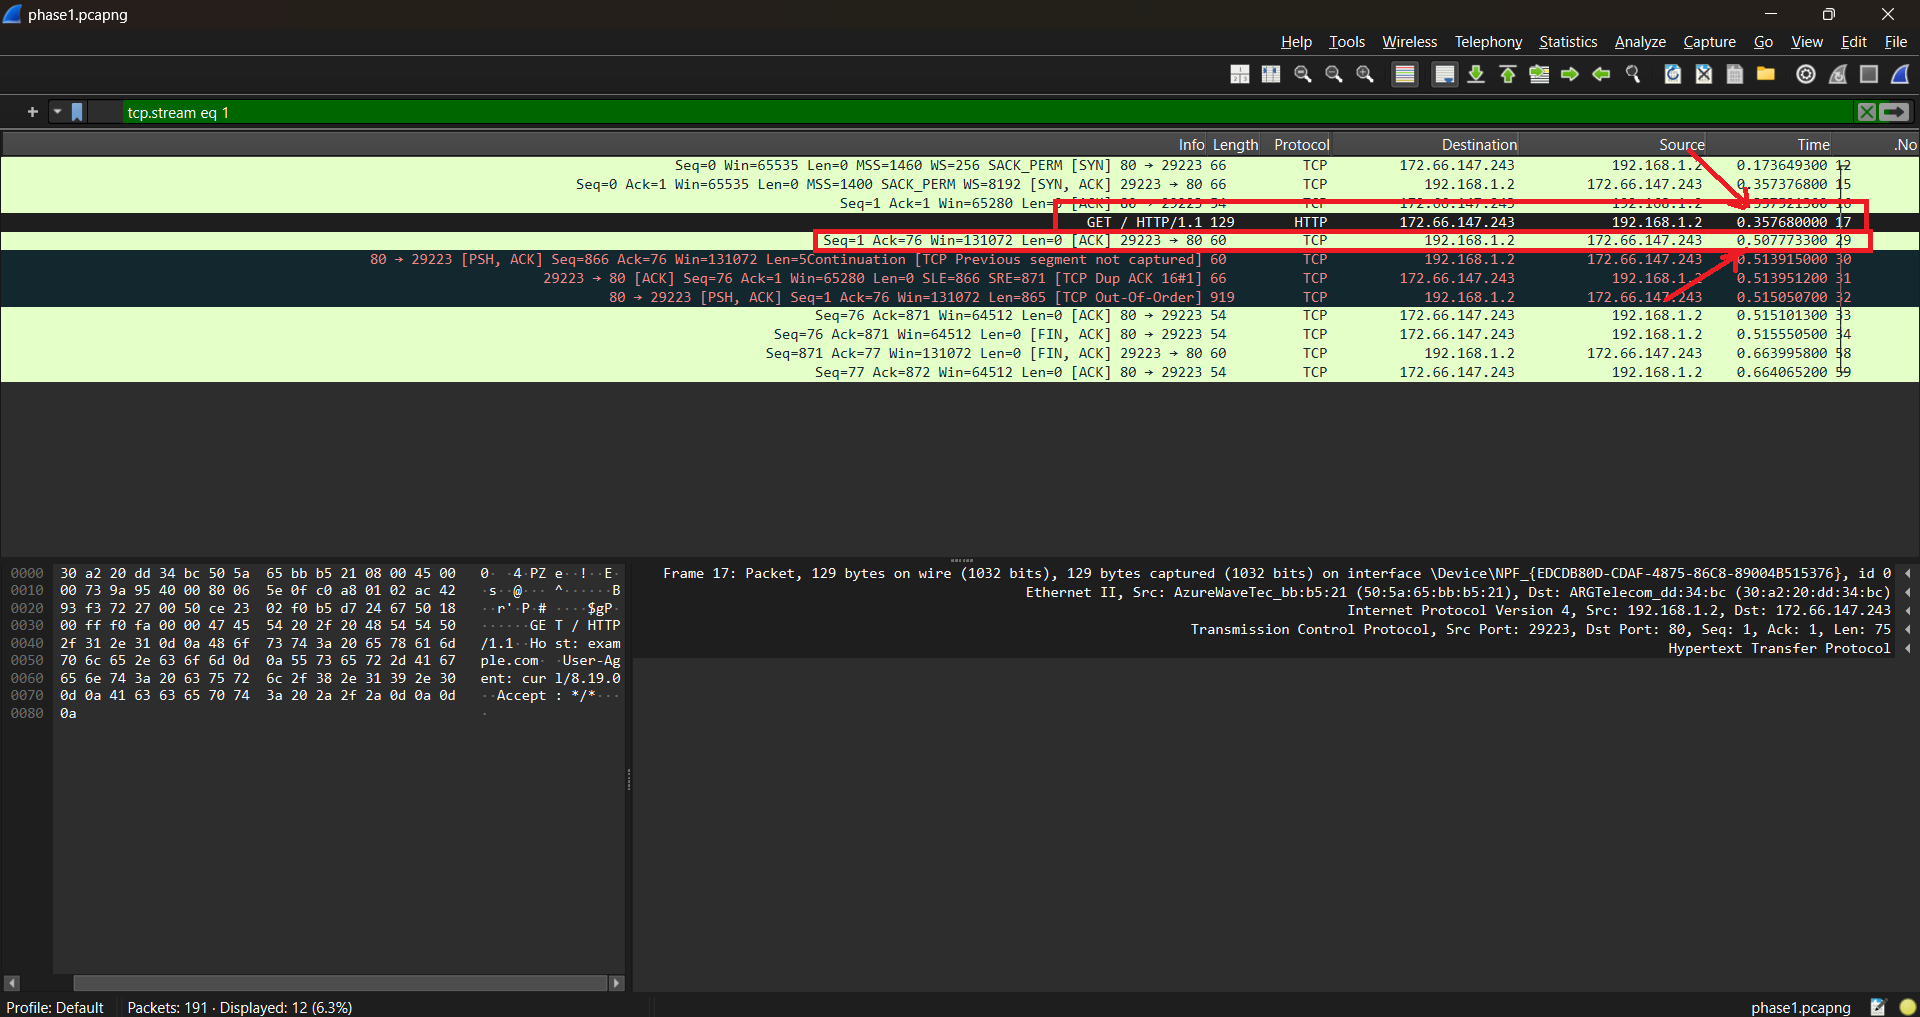
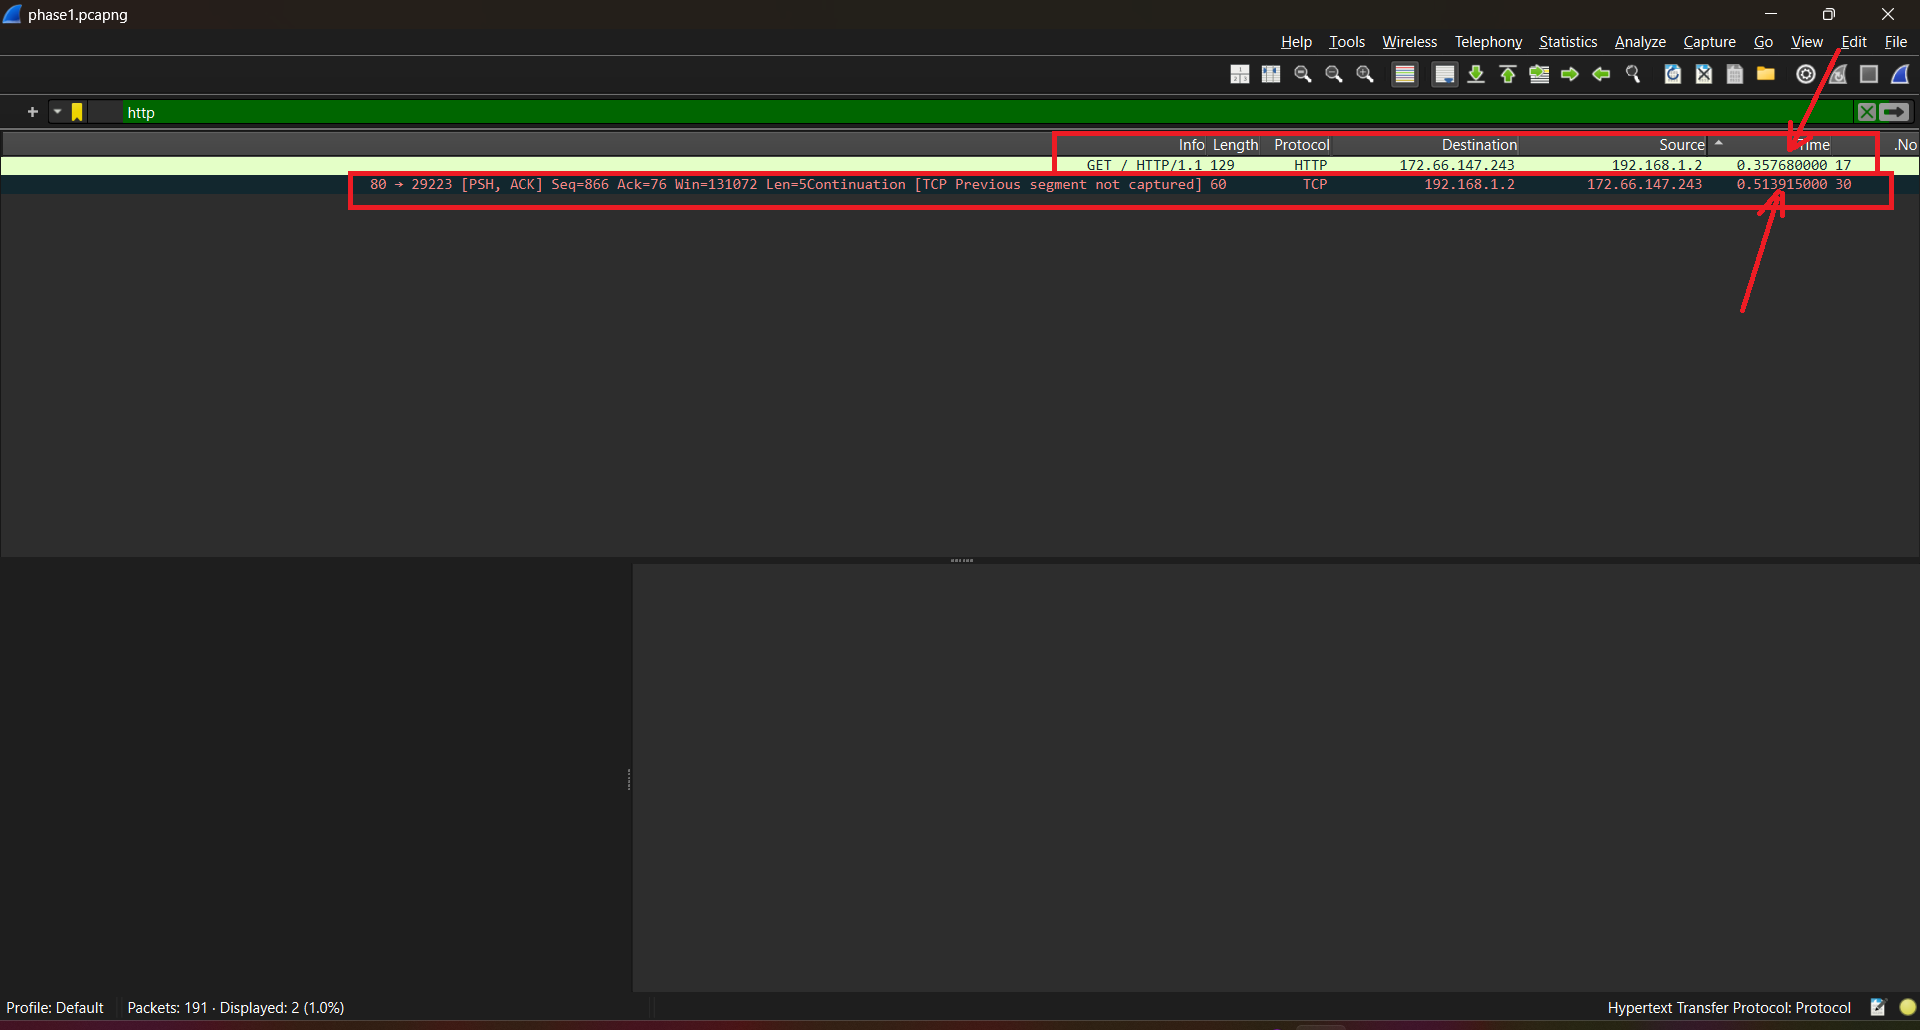
Fix: Update README with accurate HTTP RTT and Wireshark screenshots

diff --git a/README.md b/README.md
@@ -157,17 +157,17 @@ curl http://example.com
 | رویداد            | زمان (ثانیه) |
 | ----------------- | ------------ |
 | ارسال درخواست GET | 0.357680     |
-| دریافت اولین پاسخ | 0.507773     |
+| دریافت اولین پاسخ | 0.513915     |
 
 بنابراین:
 
 ```text
-RTT = 0.507773 - 0.357680
-RTT ≈ 0.150093 s
-RTT ≈ 150 ms
+RTT = 0.513915 - 0.357680
+RTT ≈ 0.156235 s
+RTT ≈ 156 ms
 ```
 
-این مقدار نشان میدهد حدود 150 میلیثانیه طول کشیده تا درخواست به سرور برسد و اولین پاسخ دریافت شود.
+این مقدار نشان میدهد حدود 156 میلیثانیه طول کشیده تا درخواست به سرور برسد و اولین پاسخ دریافت شود.
 
 <p align="center">
   <img src="screenshots/rtt.png" width="900">